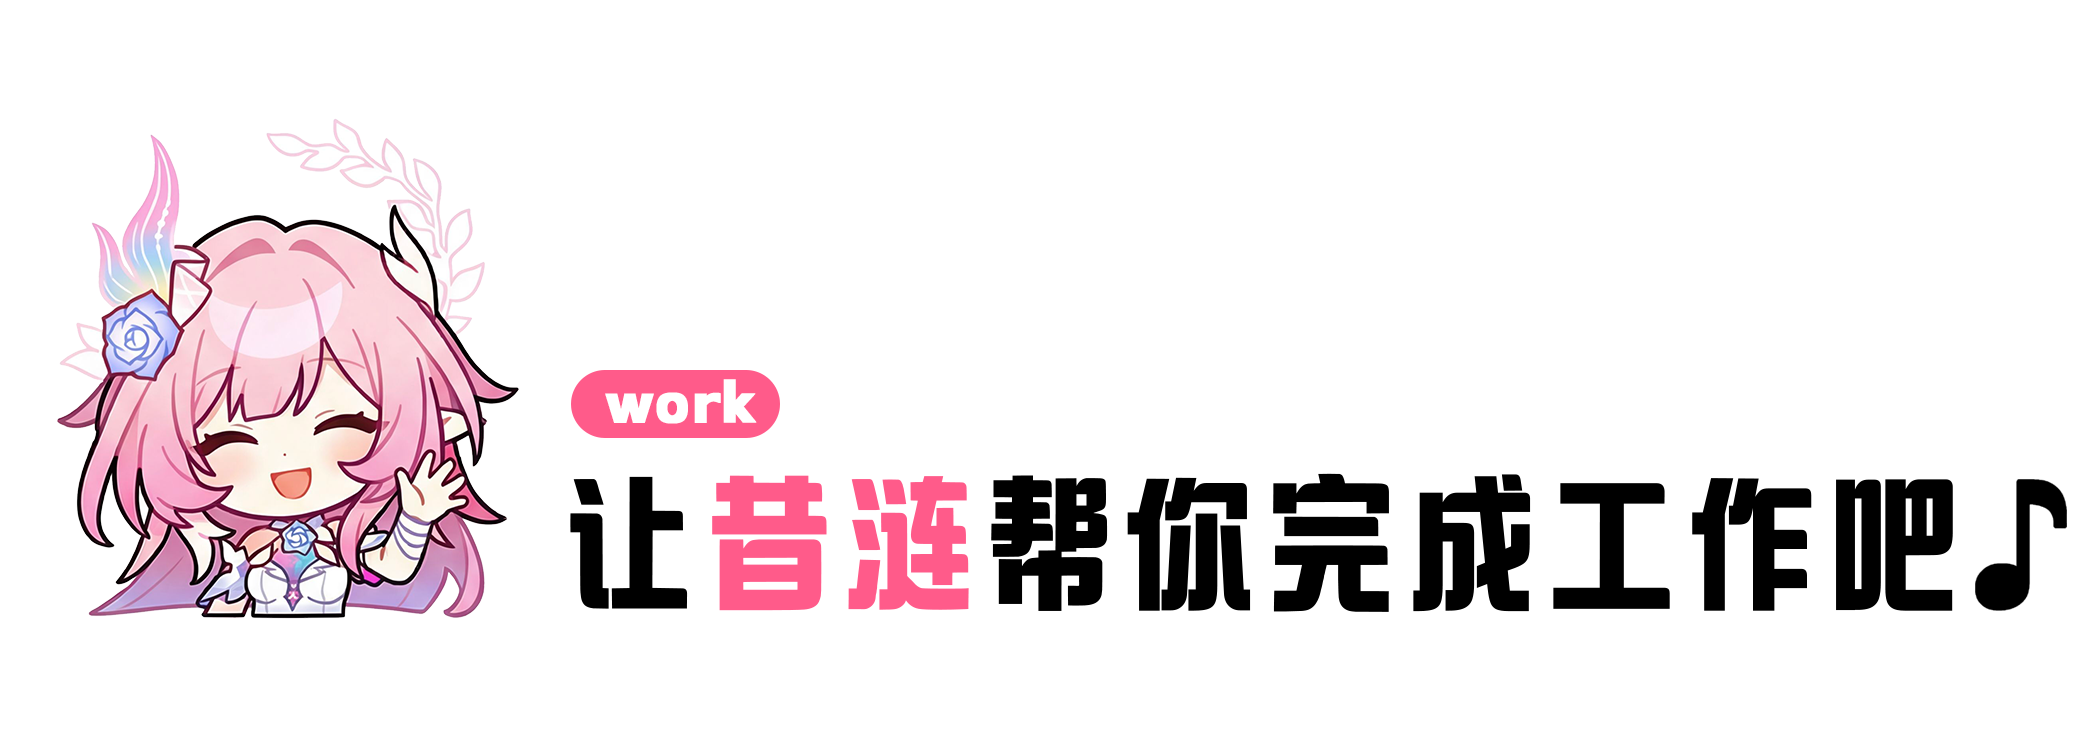
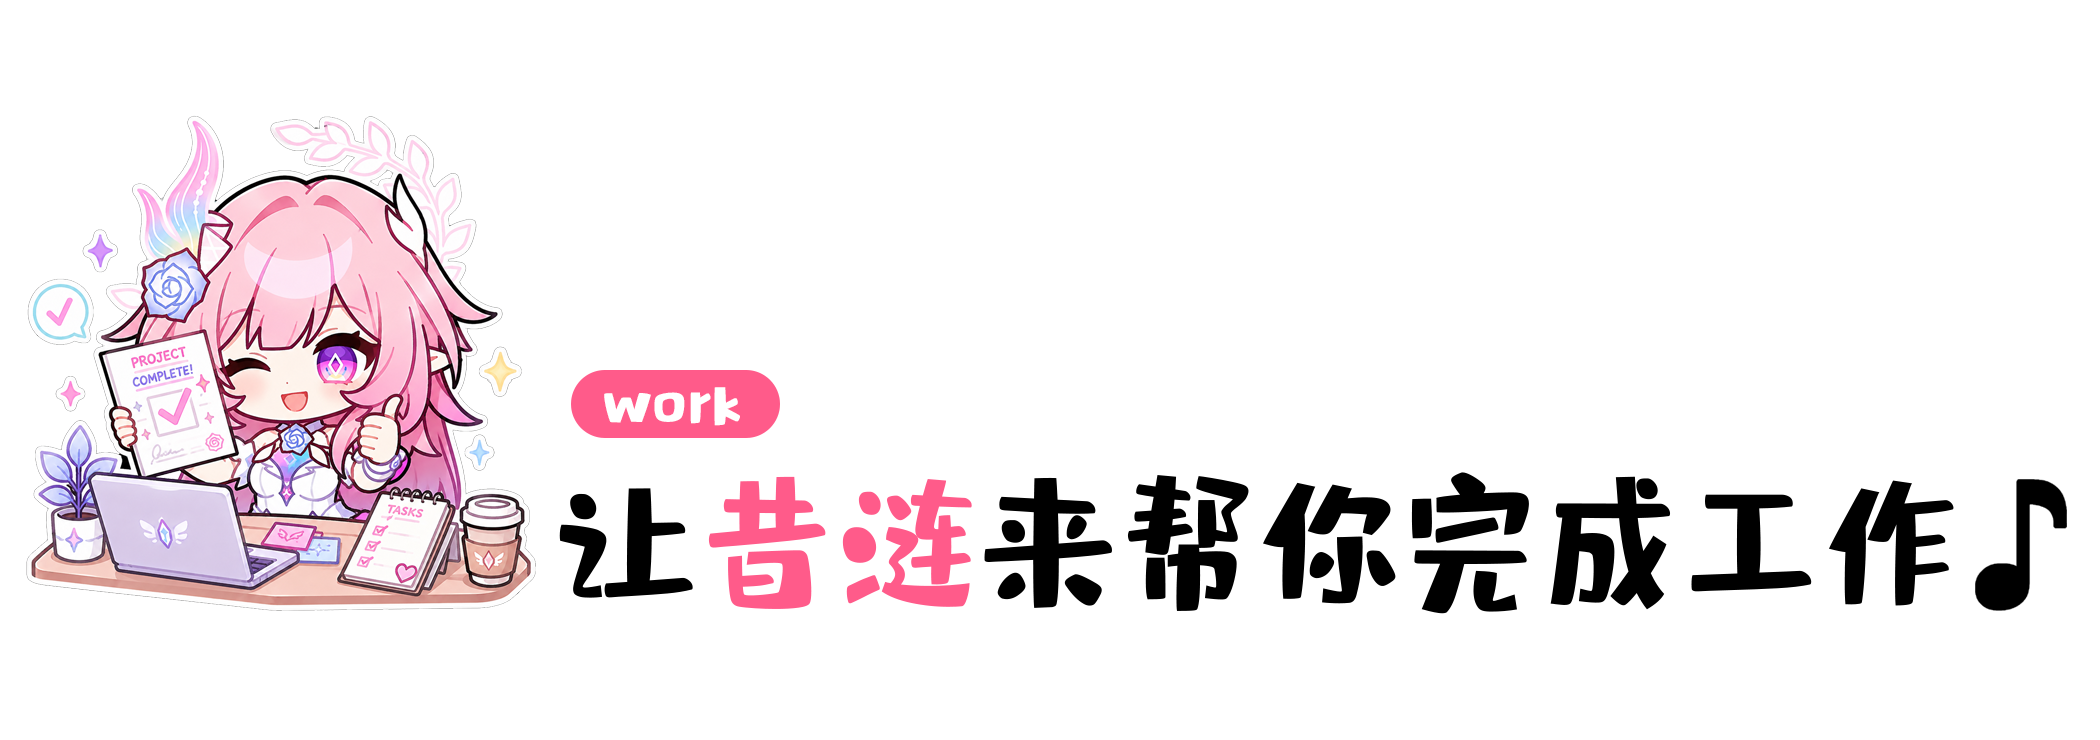
feat(assets): 更新交互卡/Todo卡/思考组件小人图，Todo 按模式分图，Code 卡文案改 Coding

Changed region(s): [[0.0, 0.1554, 0.9286, 0.8392], [0.2786, 0.4973, 0.3714, 0.5905]]

diff --git a/src/renderer/react/features/chat/components/TodoPanel.tsx b/src/renderer/react/features/chat/components/TodoPanel.tsx
@@ -1,6 +1,7 @@
 import { useMemo } from "react";
 import type { TodoState } from "../../../../shared/todo-types";
-import reminderPngUrl from "../../../assets/status-moods/提醒.png?url";
+import workTodoPngUrl from "../../../assets/status-moods/提醒.png?url";
+import learnTodoPngUrl from "../../../assets/status-moods/学习.png?url";
 import { useFloatingCard } from "./floating-card";
 import "./TodoPanel.css";
 
@@ -102,7 +103,7 @@ export function TodoPanel({ state, mode }: TodoPanelProps) {
         </div>
 
         <div className="cy-todo__hero">
-          <img className="cy-todo__mascot" src={reminderPngUrl} alt="提醒" />
+          <img className="cy-todo__mascot" src={mode === "learn" ? learnTodoPngUrl : workTodoPngUrl} alt="提醒" />
           <div className="cy-todo__hero-text">
             <div className="cy-todo__hero-title">当前任务</div>
             <div className="cy-todo__hero-sub">

diff --git a/src/renderer/react/features/chat/components/CodeGitPanel.tsx b/src/renderer/react/features/chat/components/CodeGitPanel.tsx
@@ -96,7 +96,7 @@ export function CodeGitPanel({ sessionId, projectName, todoState }: CodeGitPanel
       </button>
 
       <div className="cy-code-git__body">
-        <div className="cy-code-git__mode"><i aria-hidden="true" />模式：Code</div>
+        <div className="cy-code-git__mode"><i aria-hidden="true" />Coding</div>
         <div className="cy-code-git__hero">
           <img className="cy-code-git__mascot" src={workingPngUrl} alt="工作中" />
           <div className="cy-code-git__project">

diff --git a/src/renderer/react/features/chat/components/CodeGitPanel.test.ts b/src/renderer/react/features/chat/components/CodeGitPanel.test.ts
@@ -25,7 +25,7 @@ describe("CodeGitPanel", () => {
       todoState: { updatedAt: 1, todos: [{ id: "t1", content: "完成审阅 UI", status: "pending" }] },
     }));
 
-    expect(html).toContain("模式：Code");
+    expect(html).toContain("Coding");
     expect(html).toContain("cyrene-project");
     expect(html).toContain("分支切换");
     expect(html).toContain("提交或推送");
